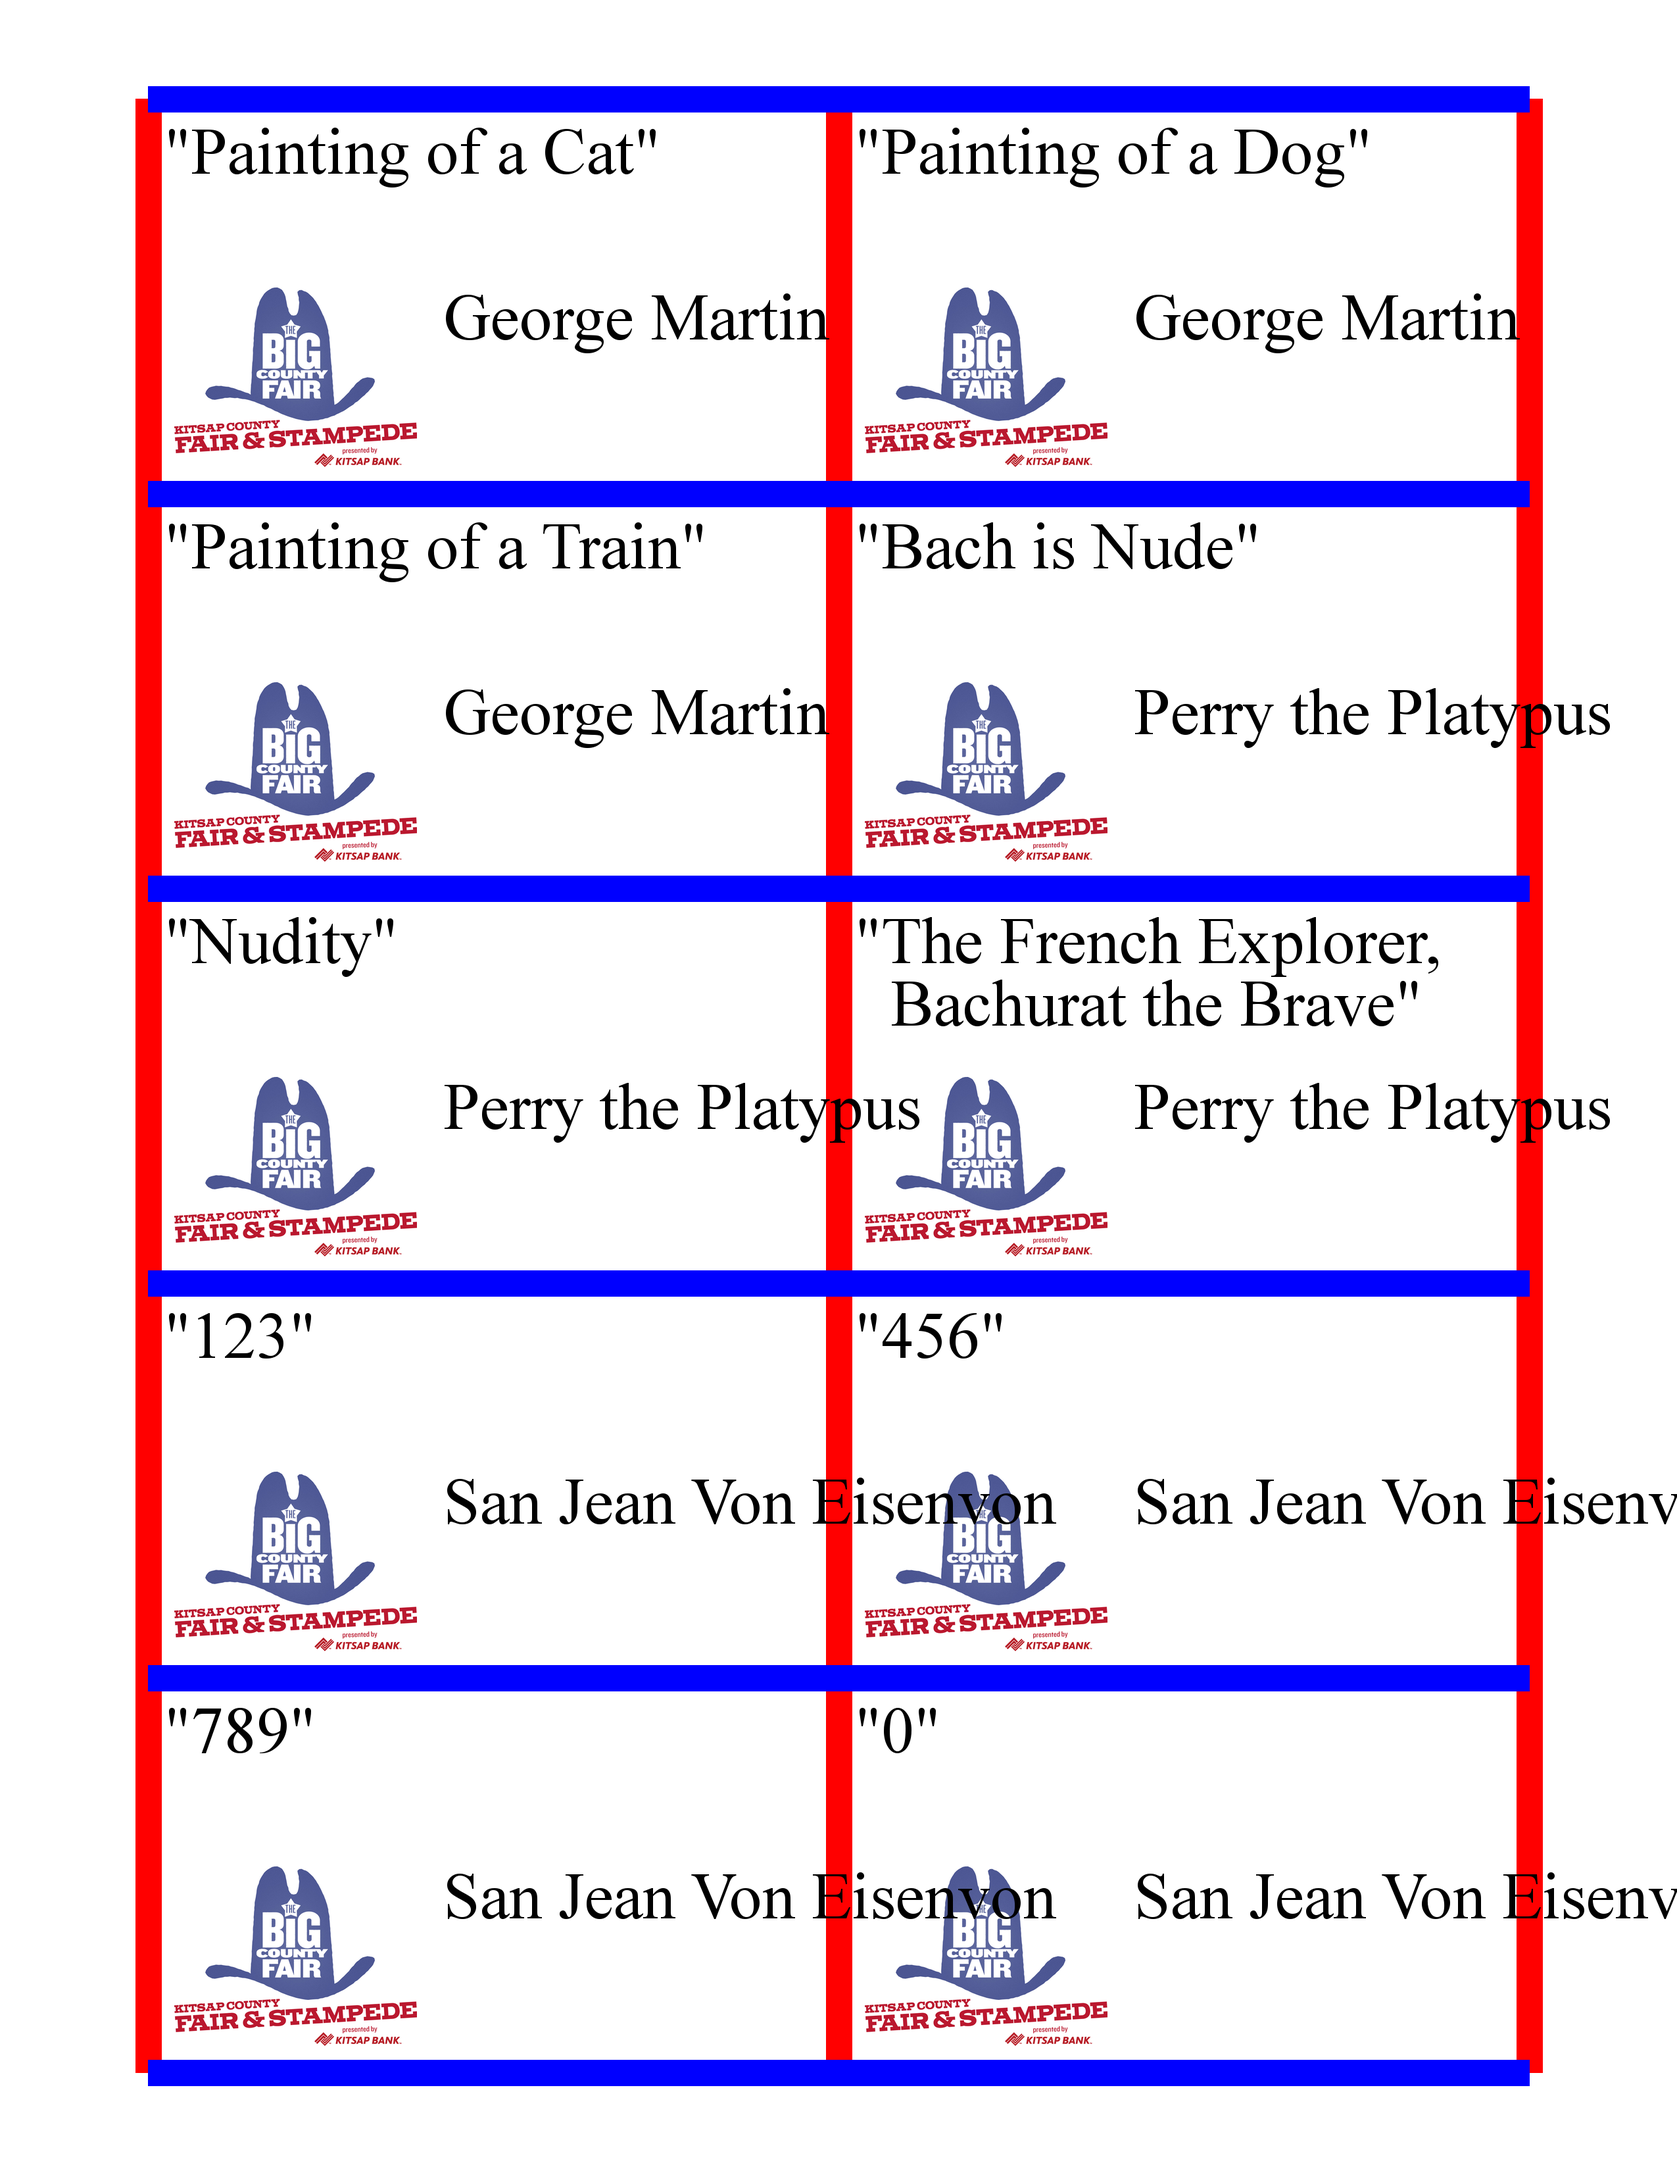
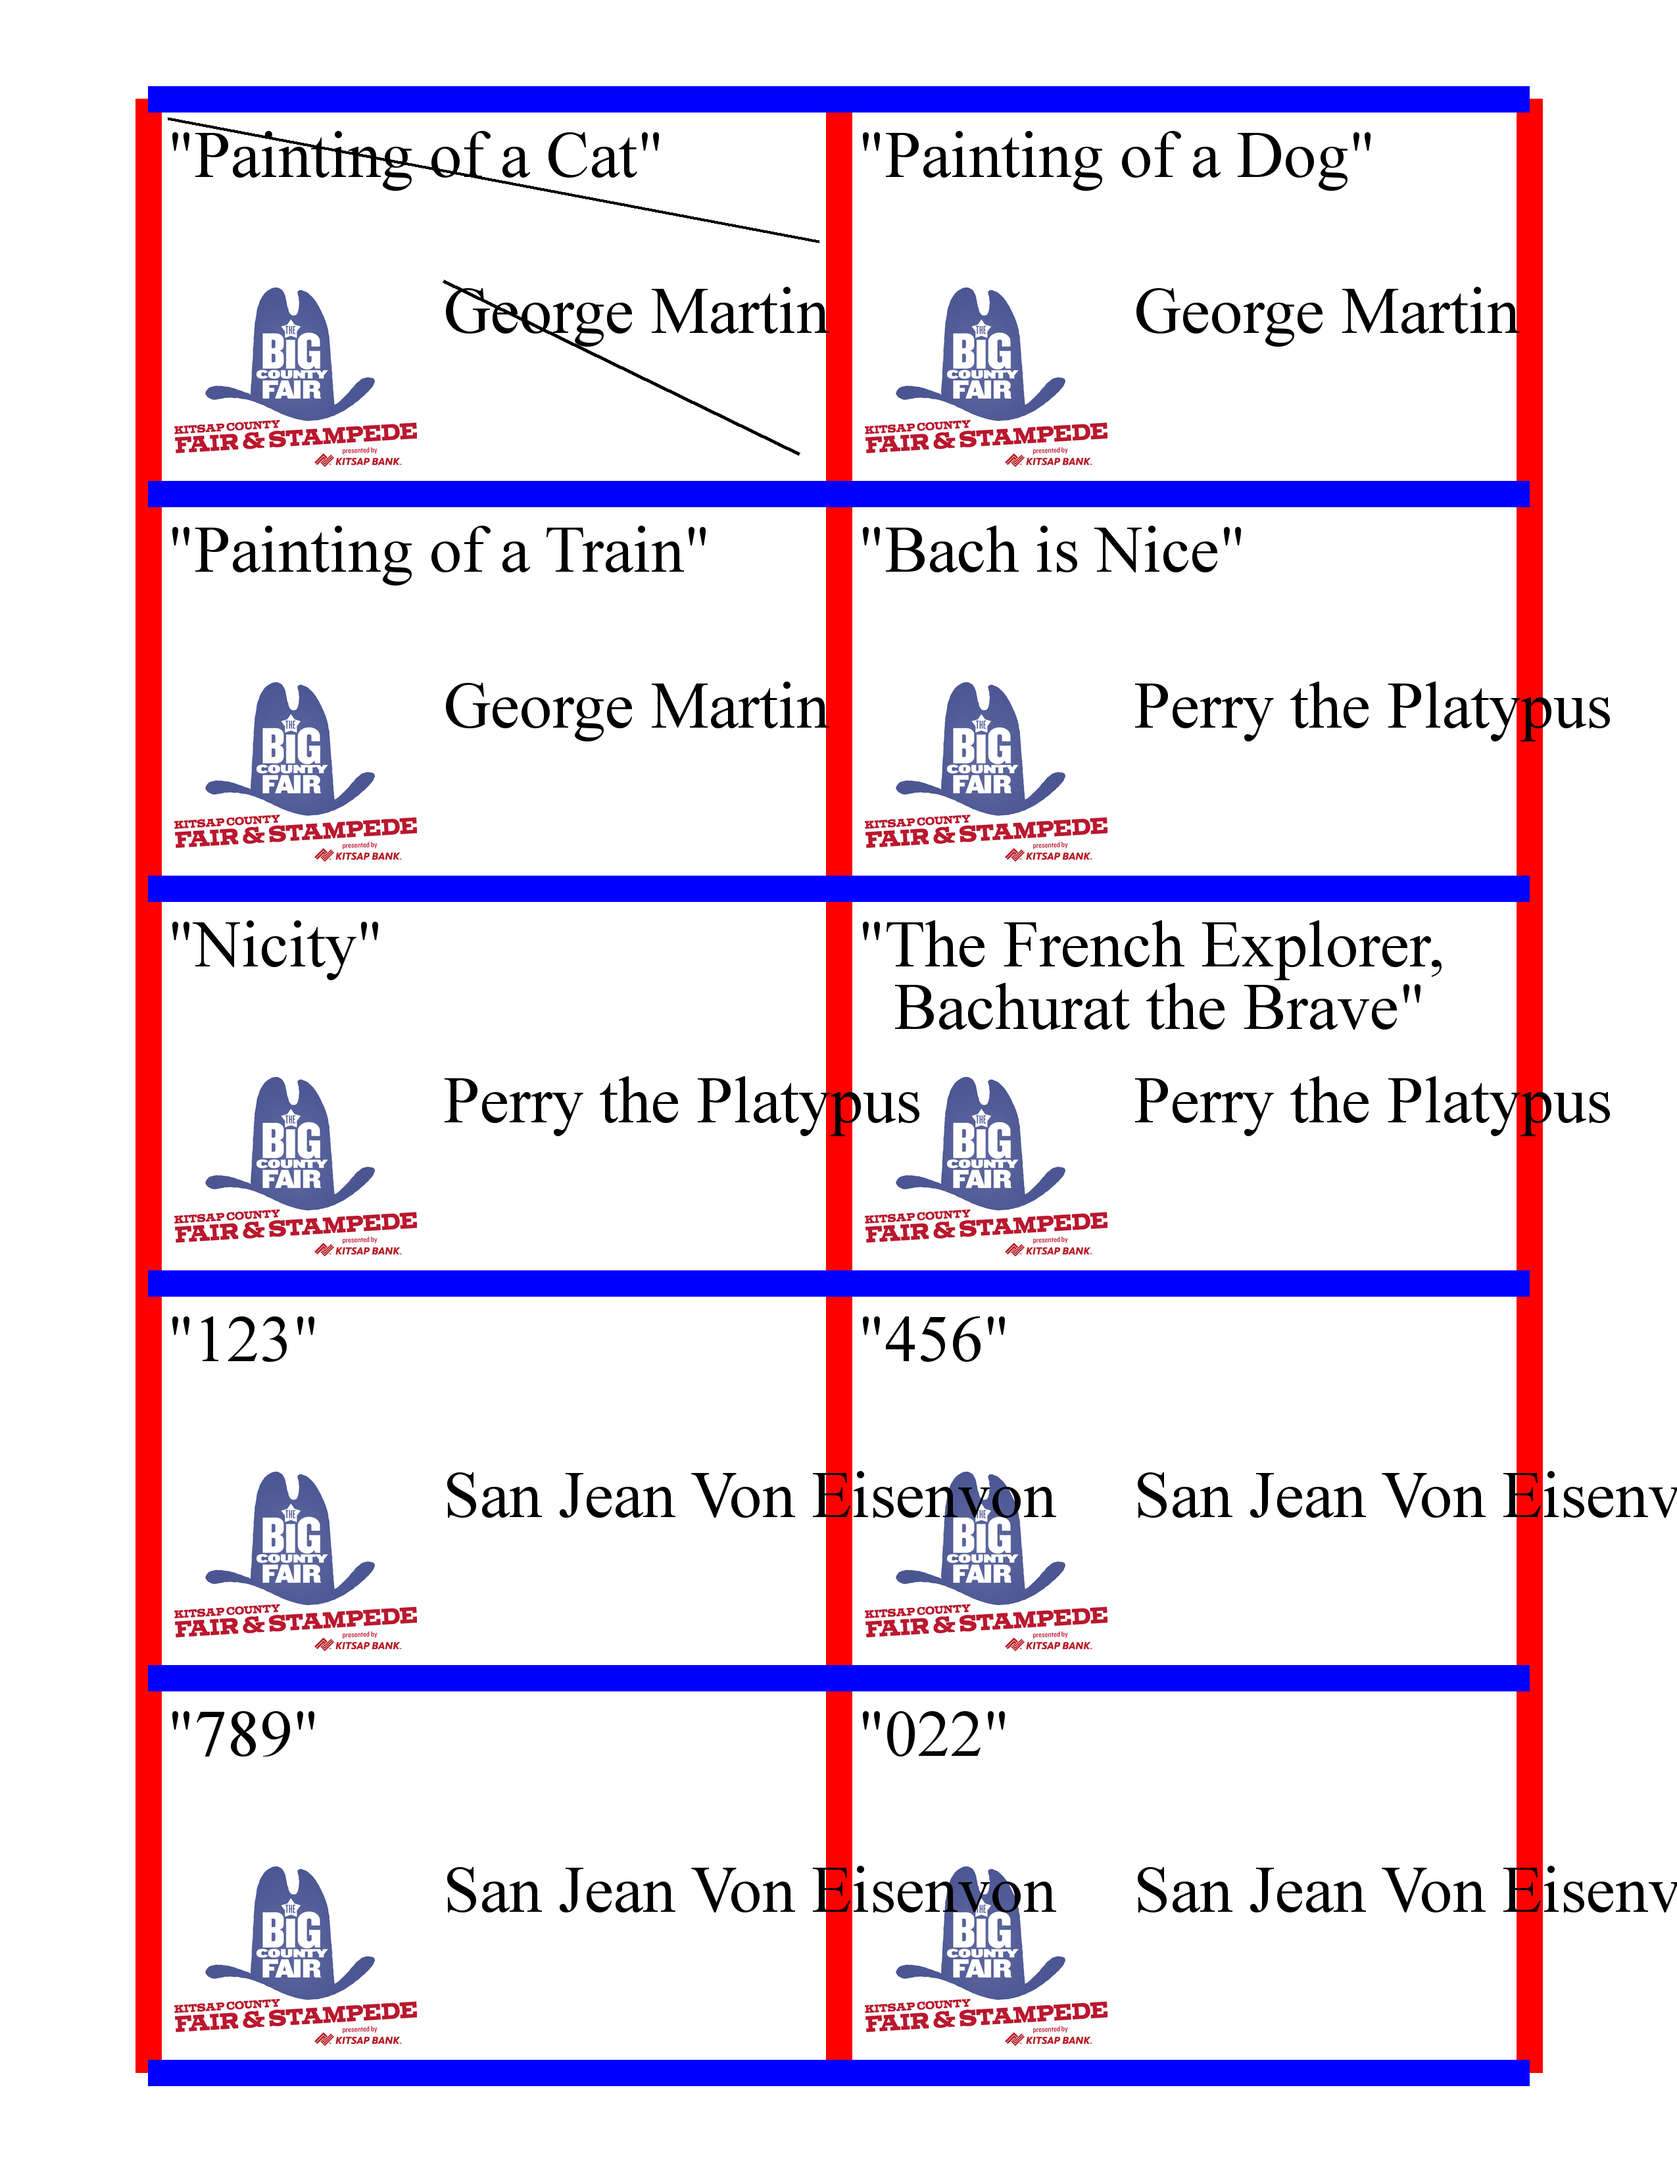
Added Textbox - 60%

diff --git a/label-generator.py b/label-generator.py
@@ -1,4 +1,5 @@
 from PIL import Image, ImageDraw, ImageFont
+import textwrap
 
 ''' TODO:
 Add text-wrapping
@@ -11,9 +12,13 @@ PIXELS_PER_INCH = 300
 PAPER_SIZE = (8.5, 11)
 ROWS = 5
 COLUMNS = 2
+
 BORDER_WIDTH = 40
 LOGO_MARGIN = 40
-TEXT_MARGIN = 25
+TOP_MARGIN = .5
+SIDE_MARGIN = .75
+TEXT_MARGIN = 30
+
 IMAGE_BACKGROUND = "white"
 logo = Image.open("fair_logo.jpg")
 logo = logo.resize((369, 273), Image.LANCZOS) #328, 243
@@ -23,23 +28,37 @@ FONT_PATH = "times.ttf"
 IMAGE_SIZE = (int(PAPER_SIZE[0] * PIXELS_PER_INCH),
               int(PAPER_SIZE[1] * PIXELS_PER_INCH))
 MARGIN_SIZE = 1 * PIXELS_PER_INCH
-TOP_MARGIN = int(.5 * PIXELS_PER_INCH)
-SIDE_MARGIN = int(.75 * PIXELS_PER_INCH)
+TOP_MARGIN = int(TOP_MARGIN * PIXELS_PER_INCH)
+SIDE_MARGIN = int(SIDE_MARGIN * PIXELS_PER_INCH)
+
 X_MIN = SIDE_MARGIN
 X_MAX = IMAGE_SIZE[0] - SIDE_MARGIN
 Y_MIN = TOP_MARGIN
 Y_MAX = IMAGE_SIZE[1] - TOP_MARGIN
+
 PIXELS_IN_ROW = ((Y_MAX - Y_MIN) // ROWS)
 CARD_SIZE = (((X_MAX - X_MIN) // 2), PIXELS_IN_ROW)
-LOGO_TRANSLATION = (LOGO_MARGIN, CARD_SIZE[1] - logo.size[1] - LOGO_MARGIN)
-TITLE_TRANSLATION = (TEXT_MARGIN, TEXT_MARGIN)
-NAME_TRANSLATION = (logo.size[0] + LOGO_MARGIN * 2, CARD_SIZE[1] - TEXT_MARGIN * 2 - logo.size[1] )
+
 font10 = ImageFont.truetype(FONT_PATH, 100)
 font8 = ImageFont.truetype(FONT_PATH, 100)
 
-
 image = Image.new("RGB", IMAGE_SIZE, IMAGE_BACKGROUND)
 draw = ImageDraw.Draw(image, "RGB")
+
+LOGO_TRANSLATION = (LOGO_MARGIN, CARD_SIZE[1] - logo.size[1] - LOGO_MARGIN)
+# Format        [(UPPER, LEFT), (LOWER, RIGHT), (SIZE)]
+title_textbox = [(TEXT_MARGIN + X_MIN, TEXT_MARGIN + Y_MIN),
+                 (CARD_SIZE[0] - TEXT_MARGIN + X_MIN, CARD_SIZE[1] - logo.size[1] - LOGO_MARGIN * 2 - TEXT_MARGIN + Y_MIN),
+                 ()]
+title_textbox[2] = (title_textbox[1][0] - title_textbox[0][0], title_textbox[1][1] - title_textbox[0][1])
+name_textbox = [(logo.size[0] + LOGO_MARGIN * 2 + X_MIN, CARD_SIZE[1] - logo.size[1] - LOGO_MARGIN * 2 + TEXT_MARGIN + Y_MIN),
+                (CARD_SIZE[0] - TEXT_MARGIN * 2 + X_MIN, CARD_SIZE[1] - TEXT_MARGIN * 2 + Y_MIN),
+                ()]
+name_textbox[2] = (name_textbox[1][0] - name_textbox[0][0], name_textbox[1][1] - name_textbox[0][1])
+    
+#TO REMOVE - DEPRECIATED
+TITLE_TRANSLATION = (TEXT_MARGIN, TEXT_MARGIN)
+NAME_TRANSLATION = (logo.size[0] + LOGO_MARGIN * 2, CARD_SIZE[1] - TEXT_MARGIN * 2 - logo.size[1] )
 
 #Generates a list containing the upper left coordinate of each card.
 cards_coordinates = []
@@ -90,15 +109,39 @@ current_data = [ #[Name, Title, Name_Modifier, Title Modifier]
     ["George Martin", "Painting of a Cat"], 
     ["George Martin", "Painting of a Dog"],
     ["George Martin", "Painting of a Train"],
-    ["Perry the Platypus", "Bach is Nude"],
-    ["Perry the Platypus", "Nudity"],
+    ["Perry the Platypus", "Bach is Nice"],
+    ["Perry the Platypus", "Nicity"],
     ["Perry the Platypus", "The French Explorer,\n Bachurat the Brave"],
     ["San Jean Von Eisenvon", "123"],
     ["San Jean Von Eisenvon", "456"],
     ["San Jean Von Eisenvon", "789"],
-    ["San Jean Von Eisenvon", "0"]]
+    ["San Jean Von Eisenvon", "022"]]
 
-#draw.multiline_textsize("Perry the Platypus",font=font10, spacing=0)
+def text_format(text, text_box_size, font):
+    text_size = draw.multiline_textsize(text, font=font, spacing=6)
+    
+    if text_size >= text_box_size:
+        number_of_lines = 2
+    else:
+        number_of_lines = 1
+    
+    
+    text_center(text, text_box_size, font, number_of_lines)
+
+def text_center(text, text_box_size, font, number_of_lines):
+    text_size = draw.multiline_textsize(text, font=font, spacing=6)
+    if text_size >= text_box_size:
+        pass
+    else:
+        pass
+
+    formatted_text = text
+    
+    xy_adjustment = (0,0)
+
+    return formatted_text, xy_adjustment
+
+
 def write_text(data_list):
     image = blank_image
     for i, coord in enumerate(cards_coordinates):
@@ -109,7 +152,13 @@ def write_text(data_list):
         current_coord = (coord[0] + NAME_TRANSLATION[0], coord[1] + NAME_TRANSLATION[1])
         draw.multiline_text((current_coord), data_list[i][0], fill="black",
                             font=font8, spacing=6, align="center" )
-        
+
+
+#TO REMOVE, Locates name and title textboxes
+draw.line(title_textbox[0:2],
+            fill="black", width=5)
+draw.line(name_textbox[0:2],
+            fill="black", width=5)
 
 write_text(current_data)
 image.save("Test.png")
